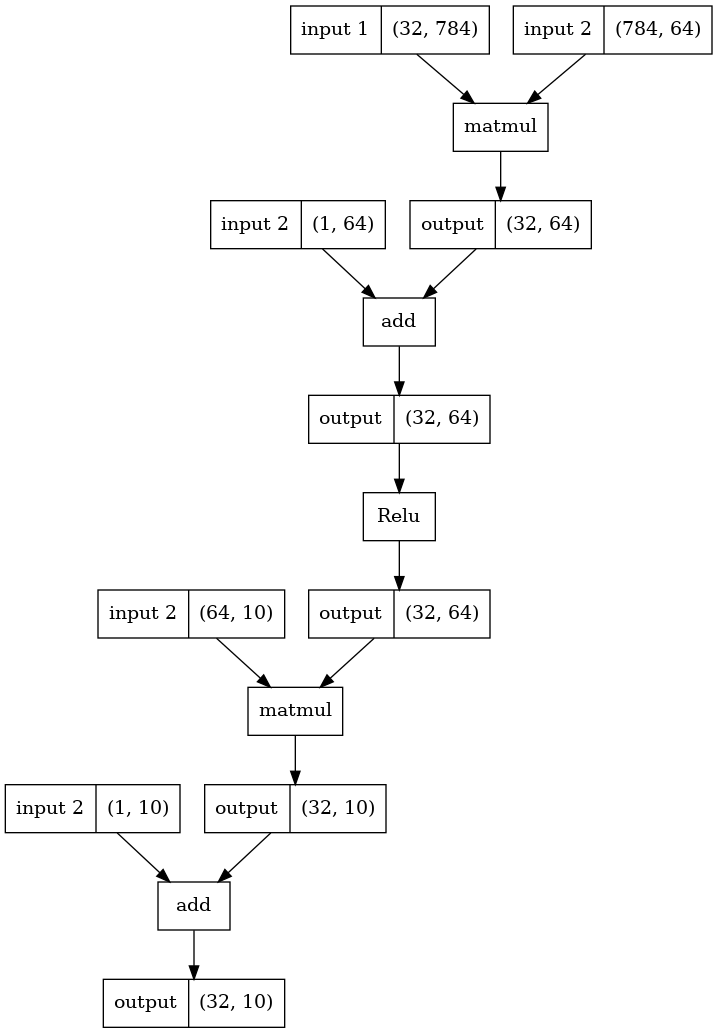
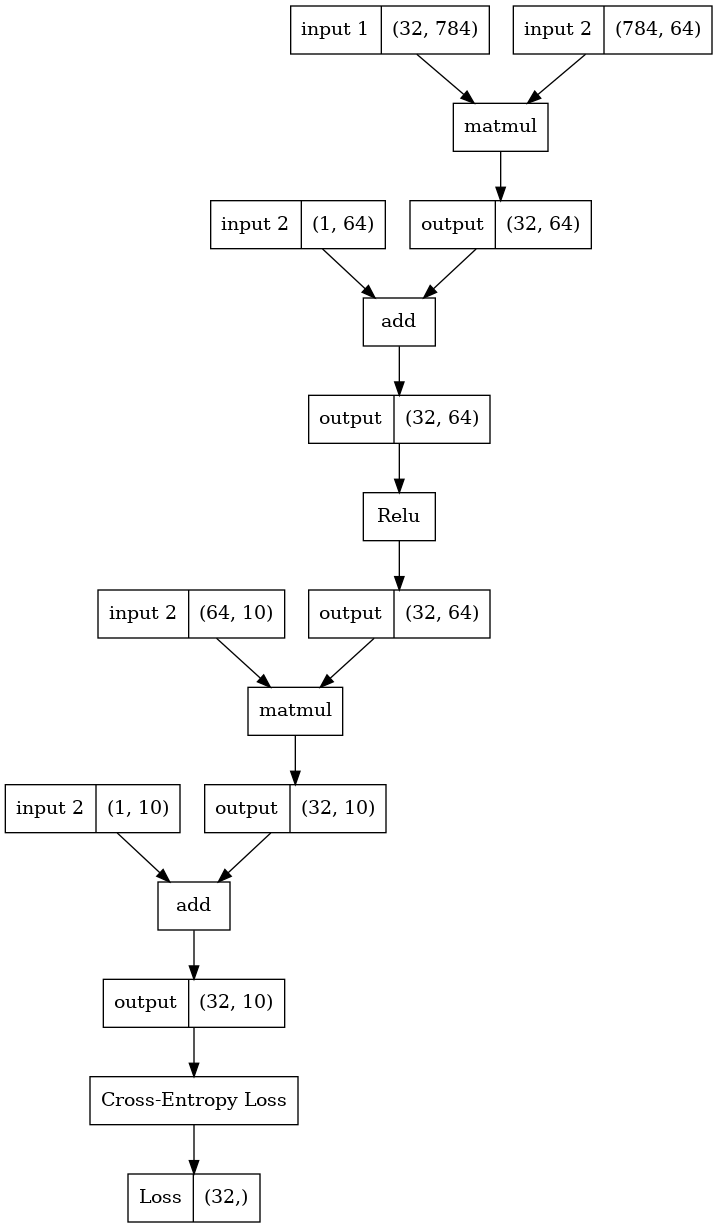
trying

diff --git a/dlgrad/tensor.py b/dlgrad/tensor.py
@@ -6,6 +6,7 @@ from .graph import draw_graph
 class Tensor:
     save_for_backward = []
     parameters = []
+    flag = True
 
     def __init__(self, data: np.ndarray):
         self.tensor: np.ndarray = data 
@@ -32,41 +33,49 @@ class Tensor:
         return Tensor(self.tensor.T)
     
     # BinaryOps
-    def add(self: Tensor, other: Tensor):
+    def add(self: Tensor, other: Tensor, flag):
         output = Tensor(self.tensor + other.tensor)
-        Tensor.save_for_backward.append(self, other)
 
-        draw_graph(
-            'add',
-            (output.tensor.shape, 'output'),
-            (self.tensor.shape, 'input 1'), 
-            (other.tensor.shape, 'input 2')
-        )
-        
+        if flag:
+            Tensor.save_for_backward.extend((self, other))
+
+            draw_graph(
+                'add',
+                (output.tensor.shape, 'output'),
+                (self.tensor.shape, 'input 1'), 
+                (other.tensor.shape, 'input 2')
+            )
+            
         def backward():
-            self.grad += np.identity(self.shape[0]) @ output.grad
-            other.grad += np.identity(other.shape[0]) @ output.grad
+            self.grad = self.grad + output.grad
+            other.grad = other.grad + np.sum(output.grad, axis=0, keepdims=True)
         
-        output.backward = backward
+        output._backward = backward
 
         return output
 
-    def matmul(self: Tensor, other: Tensor):
-        output = Tensor(self.tensor @ other.tensor)
-        Tensor.save_for_backward.append(self, other)
+    def sub(self, other):
+        return Tensor(self.tensor-other.tensor)
 
-        draw_graph(
-            'matmul',
-            (output.tensor.shape, 'output'),
-            (self.tensor.shape, 'input 1'),
-            (other.tensor.shape, 'input 2')
-        )
+    def matmul(self: Tensor, other: Tensor, flag):
+        output = Tensor(self.tensor @ other.tensor)
+        if flag:
+            Tensor.save_for_backward.extend((self, other))
+
+            draw_graph(
+                'matmul',
+                (output.tensor.shape, 'output'),
+                (self.tensor.shape, 'input 1'),
+                (other.tensor.shape, 'input 2')
+            )
 
         def backward():
             self.grad += output.grad @ other.tensor.T
+            # print(f"type {type(self.grad)}")
             other.grad += self.tensor.T @ output.grad
+            # print(f"type {type(other.grad)}")
 
-        output.backward = backward
+        output._backward = backward
 
         return output 
 
@@ -83,6 +92,11 @@ class Tensor:
     def get_parameters():
         return Tensor.parameters 
 
+    # def zero_grad():
+    #     for parameters in Tensor.get_parameters():
+    #         parameters.grad = np.zeros(parameters.shape)
+
+
 
     # Autograd Engine
 
@@ -91,7 +105,7 @@ class Tensor:
     # the neural network architecture sequentially.
     def backward(self):
         # Add the last node(the loss) to the list
-        Tensor.save_for_backward(self)
+        Tensor.save_for_backward.append(self)
 
         # TODO: Is this necessary ?
         self.grad = np.ones(self.shape)

diff --git a/dlgrad/loss.py b/dlgrad/loss.py
@@ -4,7 +4,7 @@ from .tensor import Tensor
 from .graph import draw_graph
 
 
-def crossentropy(predictions: Tensor, targets: Tensor):
+def crossentropy(predictions: Tensor, targets: Tensor, flag):
     """
     Similar to PyTorch cross entropy.
     First log softmax is done and then 
@@ -17,22 +17,24 @@ def crossentropy(predictions: Tensor, targets: Tensor):
     log_probs = np.log(softmax(predictions.tensor))
     nll = -(log_probs[range(targets.shape[0]), targets.tensor.T])
     out = Tensor(nll)
-    
-    Tensor.save_for_backward.append(predictions)
 
-    draw_graph(
-        'Cross-Entropy Loss',
-        (out.tensor.shape, 'Loss')
-        (predictions.shape, 'Predictions')
-    )
+    if flag:
+        Tensor.save_for_backward.append(predictions)
+
+        draw_graph(
+            'Cross-Entropy Loss',
+            (out.tensor.shape, 'Loss'),
+            (predictions.shape, 'Predictions')
+        )
 
     # dL/dpreddictions = predictions-true(one-hot)
     def backward():
-        one_hot_labels = Tensor.zeros(predictions.shape[0], predictions.shape[1]) 
-        one_hot_labels[range(predictions.shape[0]), targets] = 1
-        predictions.grad += predictions - one_hot_labels
+        one_hot_labels = np.zeros((predictions.shape[0], predictions.shape[1]))
+        one_hot_labels[range(predictions.shape[0]), targets.tensor] = 1
+        # one_hot_labels = Tensor(one_hot_labels)
+        predictions.grad = predictions.grad + (predictions.tensor - one_hot_labels)
     
-    out.backward = backward
+    out._backward = backward
         
     return out 
 

diff --git a/examples/test.py b/examples/test.py
@@ -9,7 +9,7 @@ from datasets.fetch_mnist import fetch_mnist
 from dlgrad.afu import ReLU, softmax 
 from nnn.training import train
 from dlgrad.graph import display_graph 
-
+import numpy as np
 
 class Net:
     def __init__(self) -> None:
@@ -20,35 +20,41 @@ class Net:
         self.fc1 = MLP(28*28, 64, bias=True)
         self.fc2 = MLP(64, 10, bias=True)
 
-    def forward(self, x_train):
-        x = self.fc1(x_train)
-        x = ReLU(x)
-        x = self.fc2(x)
+    def forward(self, x_train, flag):
+        x = self.fc1(x_train, flag)
+        x = ReLU(x, flag)
+        x = self.fc2(x, flag)
         # x = softmax(x)
         return x
 
 # net = Net()
 # x_train, y_train, x_test, y_test = fetch_mnist()
 # print(y_train)
-# net.forward(x_train[0:32])
+# net.forward(x_train[0:32], True)
 # display_graph()
 
 def main():
-    epochs = 1
+    epochs = 10
     x_train, y_train, x_test, y_test = fetch_mnist()
     BS = 32
+    flag = True
 
     net = Net()
 
     for epoch in range(epochs):
+        print(f"epoch {epoch}")
         idx = 0
         for _ in range(int(x_train.shape[0]/BS)):
+            # print(_)
             X_train = x_train[idx:idx+BS]
             Y_train = y_train[idx:idx+BS]
             idx += BS
-            train(net, X_train, Y_train)
+            train(net, X_train, Y_train, flag)
+            flag = False
+        display_graph()
+        for parameters in Tensor.get_parameters():
+            parameters.grad = np.zeros(parameters.shape) 
 
-        print(f"epoch {epoch}")
 
 if __name__ == '__main__':
     main()

diff --git a/nnn/training.py b/nnn/training.py
@@ -1,9 +1,32 @@
 from dlgrad.loss import crossentropy
 from dlgrad.tensor import Tensor
+from dlgrad.graph import display_graph
 
-def train(model, x_train, y_train, lr=1e-3):
-    x = model.forward(x_train)
-    loss = crossentropy(x, y_train)
+lo_val = 0
+
+def train(model, x_train, y_train, flag, lr=1e-3):
+    global lo_val
+
+    x = model.forward(x_train, flag)
+
+    loss = crossentropy(x, y_train, flag)
+    if lo_val == 0:
+        display_graph()
+    lo_val += 1
+
     loss.backward()
+
+    # print("updating parametrs")
+    # Update parameters 
     for parameters in Tensor.get_parameters():
+        # print("----")
+        # print(parameters.tensor.shape)
+        # print(parameters.grad.shape)
         parameters.tensor = parameters.tensor - lr*parameters.grad
+        # print(parameters.tensor.shape)
+        # print(parameters.grad.shape)
+
+    # Calculate accuracy and loss 
+    if lo_val == 1874:
+     print(f"loss {loss.tensor.mean()}")
+     lo_val = 0

diff --git a/dlgrad/graph.py b/dlgrad/graph.py
@@ -38,8 +38,9 @@ def draw_graph(op: str, output: tuple, input1: tuple, input2: tuple=None):
         # Since either input1 or input2 is the same as the last output
         # The code will change slightly because of the labelling 
         if output_list[-1][0] == input1:
+            
             draw_edge_1_op(output_list[-1][-1], str(idx-1))
-
+            
             if input2:
                 s.node(str(idx), f'<f0> {input2_label}|<f1> {input2}')
                 draw_edge_2_op(str(idx), str(idx-1))
@@ -47,8 +48,9 @@ def draw_graph(op: str, output: tuple, input1: tuple, input2: tuple=None):
             else:
                 # Otherwise it will draw edge from input of the UnaryOps
                 idx += 1
-
+            
             s.node(str(idx), f'<f0> {output_label}|<f1> {output}')
+
             output_list.append((output, str(idx)))
             draw_edge_op_output(str(idx-2), str(idx))
             idx += 1

diff --git a/dlgrad/afu.py b/dlgrad/afu.py
@@ -3,18 +3,19 @@ from .tensor import Tensor
 from .graph import draw_graph 
 
 
-def ReLU(matrix):
+def ReLU(matrix, flag):
     output = Tensor(np.maximum(0, matrix.tensor))
-    Tensor.save_for_backward.append(matrix)
-    draw_graph(
-        'Relu',
-        (output.tensor.shape, 'output'),
-        (matrix.tensor.shape, 'input')
-    )
+    if flag:
+        Tensor.save_for_backward.append(matrix)
+        draw_graph(
+            'Relu',
+            (output.tensor.shape, 'output'),
+            (matrix.tensor.shape, 'input')
+        )
 
     def backward():
-        matrix[matrix <= 0] = 0
-        matrix.grad =  matrix
+        matrix.tensor[matrix.tensor <= 0] = 0
+        matrix.grad = matrix.tensor
 
     output._backward = backward
 

diff --git a/dlgrad/nn.py b/dlgrad/nn.py
@@ -67,8 +67,8 @@ class MLP:
             Tensor.parameters.append(self.bias)
 
     # TODO: assert shape 
-    def __call__(self, data):
-        return Tensor.add(Tensor.matmul(data, self.weight.T()), self.bias)
+    def __call__(self, data, flag):
+        return Tensor.add(Tensor.matmul(data, self.weight.T(), flag), self.bias, flag)
         # if isinstance(data, Tensor):
         #     print("in isinstance")
         #     return Tensor.matmul(data, self.weight.T())
